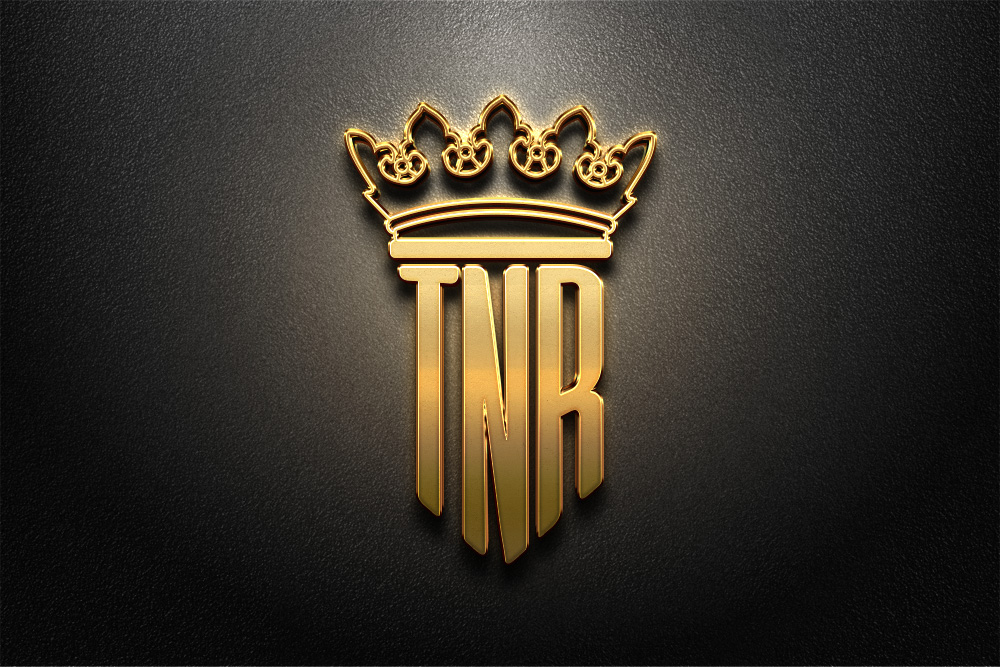
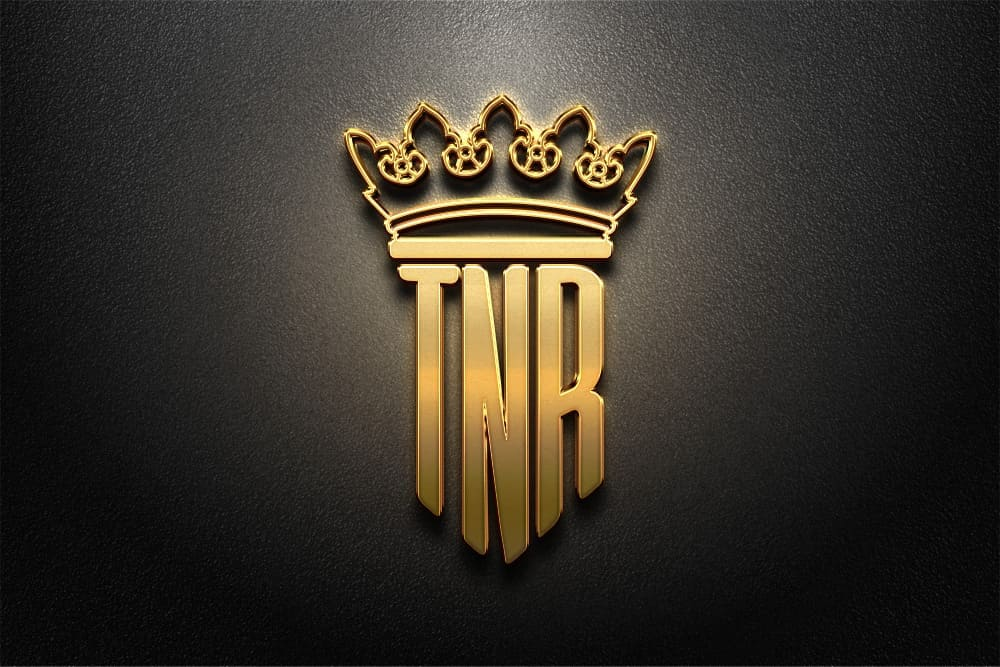
Reduce size of images

diff --git a/src/pages/Home.js b/src/pages/Home.js
@@ -1,6 +1,15 @@
 import React, { useEffect, useMemo, useRef } from "react";
 import { Link } from "react-router-dom";
 import ScrollReveal from "scrollreveal";
+import NFT1 from "../assets/imgs/NFT1.jpg"
+import NFT2 from "../assets/imgs/NFT2.jpg";
+import NFT3 from "../assets/imgs/NFT3.jpg";
+import NFT4 from "../assets/imgs/NFT4.jpg";
+import NFT5 from "../assets/imgs/NFT5.jpg";
+import NFT6 from "../assets/imgs/NFT6.jpg";
+import NFT7 from "../assets/imgs/NFT7.jpg";
+import NFT8 from "../assets/imgs/NFT8.jpg";
+import NFT9 from "../assets/imgs/NFT9.jpg";
 
 const Home = () => {
 
@@ -9,59 +18,65 @@ const Home = () => {
       id: 1,
       title: "About",
       content: "We are a team of passionate developers who love building amazing web applications. Our goal is to create software that is not only functional but also beautiful and intuitive. We believe that technology should be accessible to everyone, and we strive to make our products easy to use for people of all skill levels.",
-      img: require("../assets/imgs/NFt1.jpg"),
+      img: NFT1,
       link: "/about"
     },
     {
       id: 2,
       title: "Projects",
       content: "We have worked on a variety of projects, ranging from small websites to large-scale web applications. Our team has experience with a wide range of technologies, including React, Node.js, and MongoDB. We are always looking for new and exciting projects to work on, so if you have an idea for a web application, we would love to hear from you!",
-      img: require("../assets/imgs/NFt2.jpg"),
+      img: NFT2,
       link: "/projects"
     },
     {
       id: 3,
       title: "Ranks",
       content: "We are proud to have some of our projects ranked among the top web applications in the world. Our team has won several awards for our work, and we are constantly striving to improve our skills and create even better software. We believe that our success is due to our commitment to quality and our passion for what we do.",
-      img: require("../assets/imgs/NFt3.jpg"),
+      img: NFT3,
       link: "/ranks"
     },
     {
       id: 4,
       title: "David and God",
       content: "This striking piece portrays the seminal moment of divine connection between David and God. Its vivid colors and intricate detail illustrate the artist's skillful representation of this revered biblical event.",
-      img: require("../assets/imgs/NFt4.jpg"),
+      img: NFT4,
       link: "/artwork4"
     },
     {
       id: 5,
       title: "Battle Scene",
       content: "A striking representation of a Renaissance battle, this painting captures the chaos and bravery of the time. The artist's skill is evident in the intricate detailing of the soldiers and the dynamic portrayal of action.",
-      img: require("../assets/imgs/NFt5.jpg"),
+      img: NFT5,
       link: "/artwork5"
     },
     {
       id: 6,
-      title: "The Last Supper",
-      content: "This iconic painting depicts the last meal shared by Jesus and his disciples before his crucifixion. The artist's use of light and shadow creates a dramatic effect, emphasizing the importance of this event in Christian history.",
-      img: require("../assets/imgs/NFt6.jpg"),
+      title: "Heavenly Ascension",
+      content: "This Renaissance painting beautifully depicts the heavenly ascension with serene and ethereal imagery. The intricate detailing of the celestial beings showcases the artist's skill and devotion.",
+      img: NFT6,
       link: "/artwork6"
     },
     {
       id: 7,
-      title: "The Creation of Adam",
-      content: "This iconic painting depicts the last meal shared by Jesus and his disciples before his crucifixion. The artist's use of light and shadow creates a dramatic effect, emphasizing the importance of this event in Christian history.",
-      img: require("../assets/imgs/NFt7.jpg"),
+      title: "Still Life with Skull",
+      content: "This still life painting features a hauntingly beautiful skull. The artist has brought a raw and morbid beauty to the forefront, emphasizing the transient nature of life.",
+      img: NFT7,
       link: "/artwork7"
     },
     {
       id: 8,
-      title: "The Last Supper",
-      content: "This iconic painting depicts the last meal shared by Jesus and his disciples before his crucifixion. The artist's use of light and shadow creates a dramatic effect, emphasizing the importance of this event in Christian history.",
-      img: require("../assets/imgs/NFt8.jpg"),
+      title: "Church Interior",
+      content: "This baroque painting beautifully depicts the interior of a grand church. The artist's use of light and shadow brings depth to the image, and the intricate details highlight the architectural beauty of the era.",
+      img: NFT8,
       link: "/artwork8"
     },
-
+    {
+      id: 9,
+      title: "Heavenly Vision",
+      content: "Another beautiful representation of the heavens from the Renaissance era, this painting embodies the spiritual aspiration and religious devotion of the time, with celestial beings painted with fine detailing.",
+      img: NFT9,
+      link: "/artwork9"
+    },
   ], []);
 
 
@@ -72,18 +87,18 @@ const Home = () => {
       const direction = i % 2 === 0 ? "left" : "right";
 
       ScrollReveal().reveal(`.image-${post.id}`, {
-        delay: 0,
+        delay: 300,
         distance: "50px",
-        duration: 0,
+        duration: 300,
         easing: "ease-in-out",
         origin: direction,
         reset: true,
       });
 
       ScrollReveal().reveal(`.content-${post.id}`, {
-        delay: 400,
+        delay: 500,
         distance: "50px",
-        duration: 300,
+        duration: 400,
         easing: "ease-in-out",
         origin: direction === "left" ? "right" : "left",
         reset: true,

diff --git a/src/pages/About.js b/src/pages/About.js
@@ -1,5 +1,7 @@
 import React, { useEffect, useRef } from "react";
 import ScrollReveal from "scrollreveal";
+import NFT16 from "../assets/imgs/NFT16.jpg"
+
 
 const About = () => {
   const containerRef = useRef(null);
@@ -8,7 +10,7 @@ const About = () => {
     ScrollReveal().reveal(".about-image", {
       delay: 300,
       distance: "50px",
-      duration: 500,
+      duration: 300,
       easing: "ease-in-out",
       origin: "left",
       reset: true,
@@ -17,7 +19,7 @@ const About = () => {
     ScrollReveal().reveal(".about-content", {
       delay: 500,
       distance: "50px",
-      duration: 400,
+      duration: 300,
       easing: "ease-in-out",
       origin: "right",
       reset: true,
@@ -32,8 +34,8 @@ const About = () => {
             <img
               alt="About Placeholder"
                 className="w-full object-cover h-96"
-              src="https://images.unsplash.com/photo-1529154166925-574a0236a4f4?ixlib=rb-4.0.3&ixid=M3wxMjA3fDB8MHxwaG90by1wYWdlfHx8fGVufDB8fHx8fA%3D%3D&auto=format&fit=crop&w=1374&q=80"
-            />
+                src={NFT16}
+                />
           </div>
           <div className="w-full md:w-3/5 about-content">
             <div className="px-6 py-4">

diff --git a/src/Footer.js b/src/Footer.js
@@ -1,6 +1,6 @@
 import React from 'react';
 import { Link } from 'react-router-dom';
-import logo from "./assets/TNR/The New Royals 2b1e1441ba8a448e94a1b4bd200165f8/X.jpg";
+import logo from "./assets/imgs/X.jpg"
 
 const Footer = () => (
   <footer className='bg-black'>
@@ -9,7 +9,7 @@ const Footer = () => (
         <img src={logo} alt="The New Royals" className="w-12 h-12 text-white p-2 rounded-full"/>
         <span className="ml-3 text-xl">The New Royals</span>
       </Link>
-     
+
       <div className="md:ml-auto flex flex-wrap items-center text-base justify-center">
         <p className="text-white text-center md:text-right">© 2023 The New Royals. All rights reserved.</p>
       </div>

diff --git a/src/Header.js b/src/Header.js
@@ -1,6 +1,6 @@
 import React from 'react';
 import { Link } from 'react-router-dom';
-import logo from "./assets/TNR/The New Royals 2b1e1441ba8a448e94a1b4bd200165f8/X.jpg";
+import logo from "./assets/imgs/X.jpg"
 
 const Header = () => (
   <header className='bg-gradient-to-r from-black to-yellow-500'>

diff --git a/src/index.css b/src/index.css
@@ -14,7 +14,7 @@ body::before {
     left: 0;
     right: 0;
     bottom: 0;
-    background-image: url("./BG.png");
+    background-image: url("./assets/imgs/BG.png");
     background-repeat: repeat;
     opacity: 0.1; /* Adjust to taste: 0 is fully transparent, 1 is fully opaque */
     z-index: -1;
